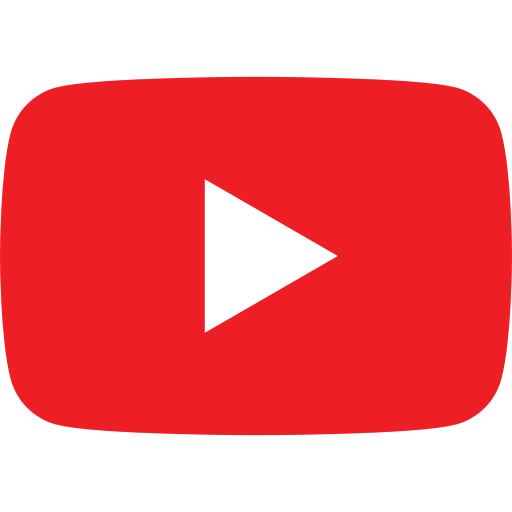
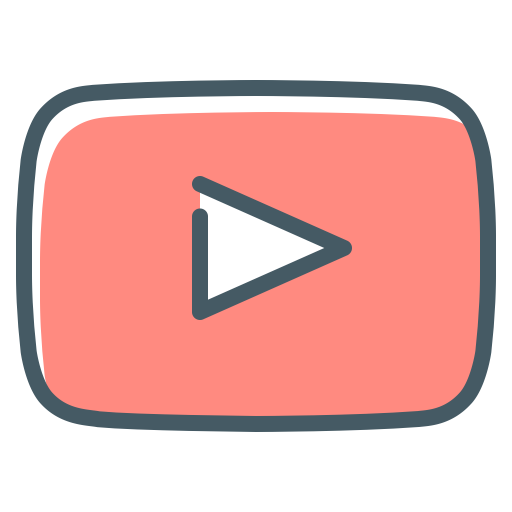
added thumbnails

diff --git a/frontend/src/App.css b/frontend/src/App.css
@@ -15,6 +15,11 @@ header {
   color: white;
 }
 
+#icon {
+  height: 40px;
+  padding-right: 10px;
+}
+
 #ytPlayer {
   width: fit-content;
   height: fit-content;
@@ -33,7 +38,30 @@ header {
   font-size: large;
 }
 
-#para {
-  color: wheat;
-  font-size: larger;
+#parent {
+  padding-top: 40px;
+  display: flex;
+  flex-direction: row;
+  justify-content: space-evenly;
+  flex-wrap: wrap;
+}
+
+.child {
+  max-width: 340px;
+  padding: 10px;
+  min-height: 265px;
+  border-radius: 5px;
+}
+
+.child:hover {
+  background-color: #343536;
+}
+
+.thumbnail {
+  padding-bottom: 10px;
+}
+
+.title {
+  color: aliceblue;
+  padding-left: 5px;
 }

diff --git a/frontend/src/pages/homePage.js b/frontend/src/pages/homePage.js
@@ -33,7 +33,16 @@ function Home(props) {
         </IconButton>
       </center>
 
-      { videos.map(video => <p id='para'><Link to={'/video/'+video.id.videoId}>{ video.snippet.title }</Link></p>) }
+      <div id='parent'>
+      { videos.map(video => 
+      <Link to={'/video/'+video.id.videoId} key={video.id.videoId} style={{ textDecoration: 'none' }}>
+        <div className='child'>
+          <img className='thumbnail' src={video.snippet.thumbnails.medium.url} alt={video.id.videoId}/>
+          <p className='title'>{video.snippet.title}</p>
+        </div>
+      </Link>
+      ) }
+      </div>
       
     </div>
   );

diff --git a/backend/server.js b/backend/server.js
@@ -37,10 +37,8 @@ const socket = io.on('connection', (obj) => {
     });
 
     obj.on('disconnect', () => {
-        if(io.engine.clientsCount == 0) {
-            playerState = -1;
-            currentTime = 0;
-        }
+        playerState = -1;
+        currentTime = 0;
     });
 });
 
@@ -51,7 +49,7 @@ app.get('/api/search/:query', async (req, res) => {
         key: process.env.API_KEY,
         part: 'snippet',
         q: query,
-        maxResults: 10
+        maxResults: 20
     })
     .then((response) => {
         console.log(response.data.items);

diff --git a/frontend/src/App.js b/frontend/src/App.js
@@ -8,7 +8,10 @@ function App() {
   return (
     <Router>
       <header>
-        <Link to='/' id='heading'>YouTube Party</Link>
+        <Link to='/' id='heading'>
+          <img src='../images/youtube_party.png' alt='icon' id='icon' />
+          YouTube Party
+        </Link>
       </header>
       <div>
         <Switch>
